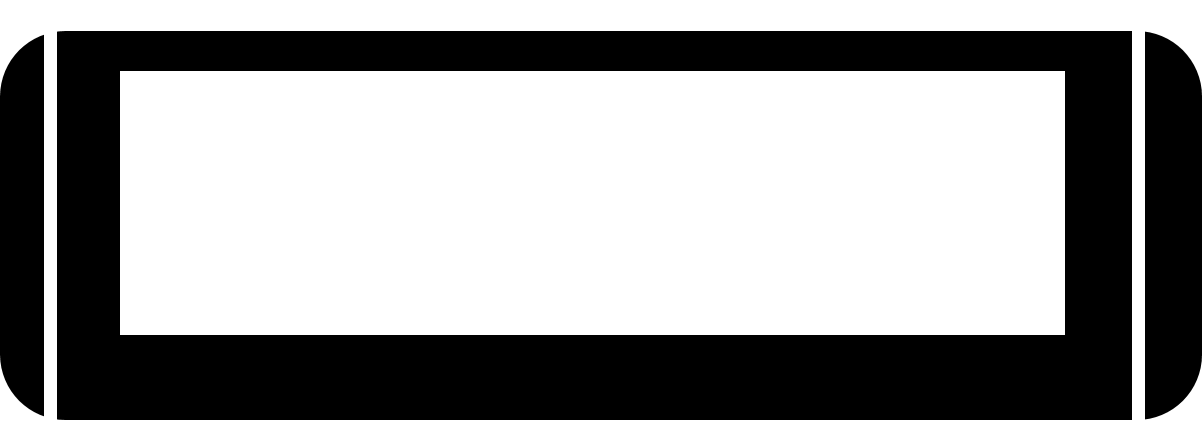
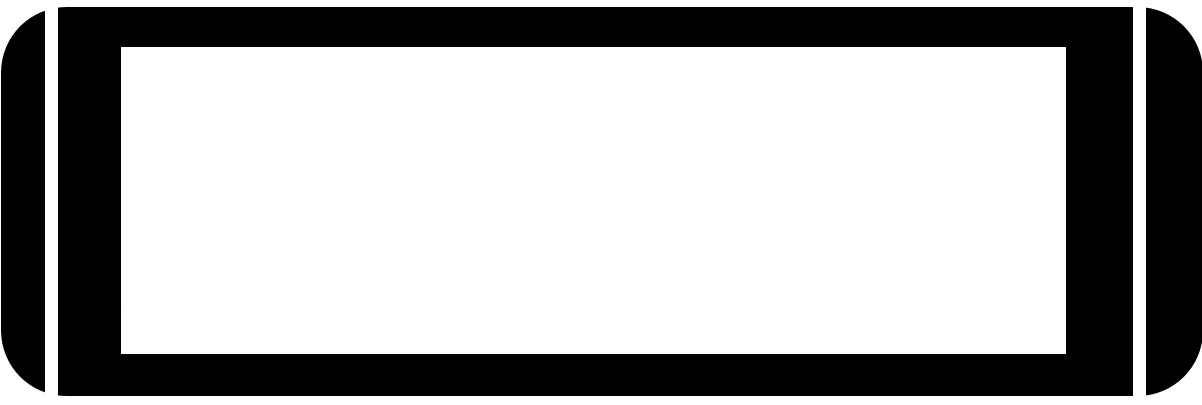
updated frame picture and trying to add css

diff --git a/home/index.html b/home/index.html
@@ -7,7 +7,7 @@
         <script src="index.js"></script>
     </head>
     <body>
-        <h2 align="center" style="padding-top: 10%">We're Marrying !</h2>
+        <h2 align="center" style="padding-top: 15%">We're Marrying !</h2>
         <h1 align="center">Fanny and Nicolas</h1>
         <h2 align="center">Aguascalientes Mexico, date</h2>
         <br>
@@ -68,7 +68,7 @@
                 <td></td>
             </tr>
         </table>
-        <img style="display: block; margin-left: auto; margin-right: auto; width: 50%;" src="../global/pictures/pictureFrame.png" alt="awesome frame">
+        <img style="display: block; margin-left: auto; margin-right: auto; width: 100%;" src="../global/pictures/pictureFrame.png" alt="awesome frame">
         <p id="page" hidden></p>
     </body>
 </html>

diff --git a/global/css/global.css b/global/css/global.css
@@ -8,6 +8,15 @@ h1 {
   color: white;
   background-color: black;
 }
+h2 {
+    font-family: "Century Gothic";
+    font-size: 24px;
+    font-style: normal;
+    font-variant: normal;
+    font-weight: 700;
+    line-height: 26.4px;
+}
+
 p {
   color: black;
 }
